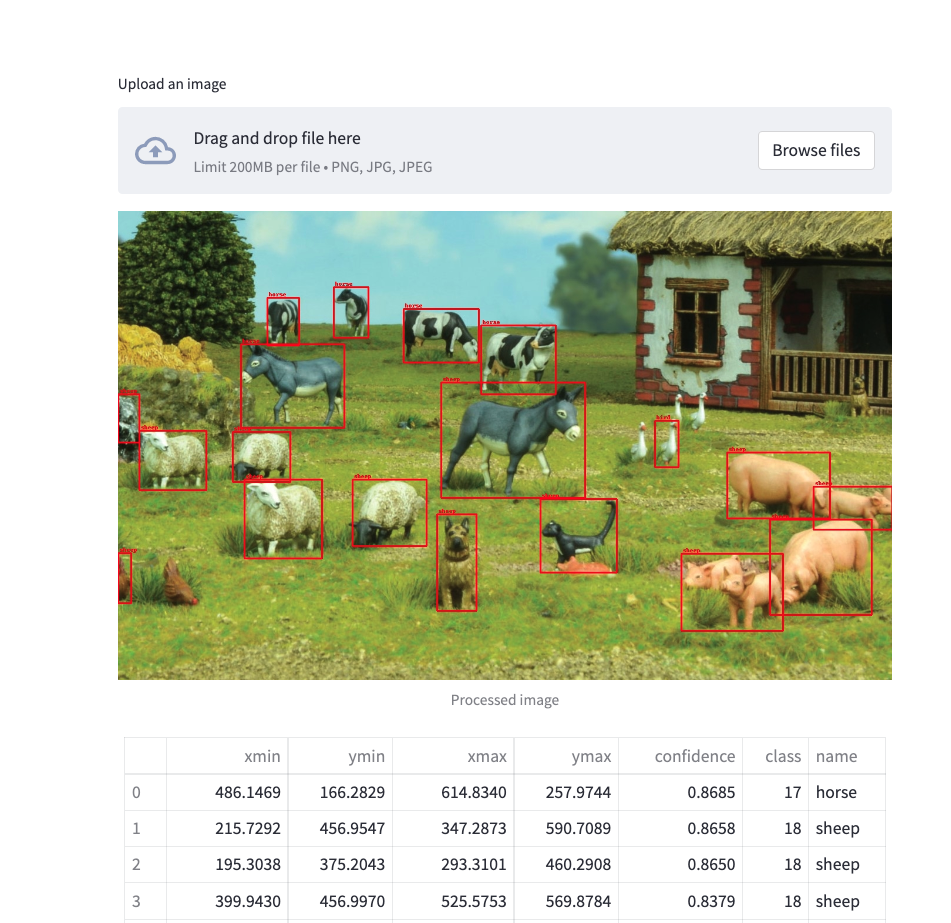
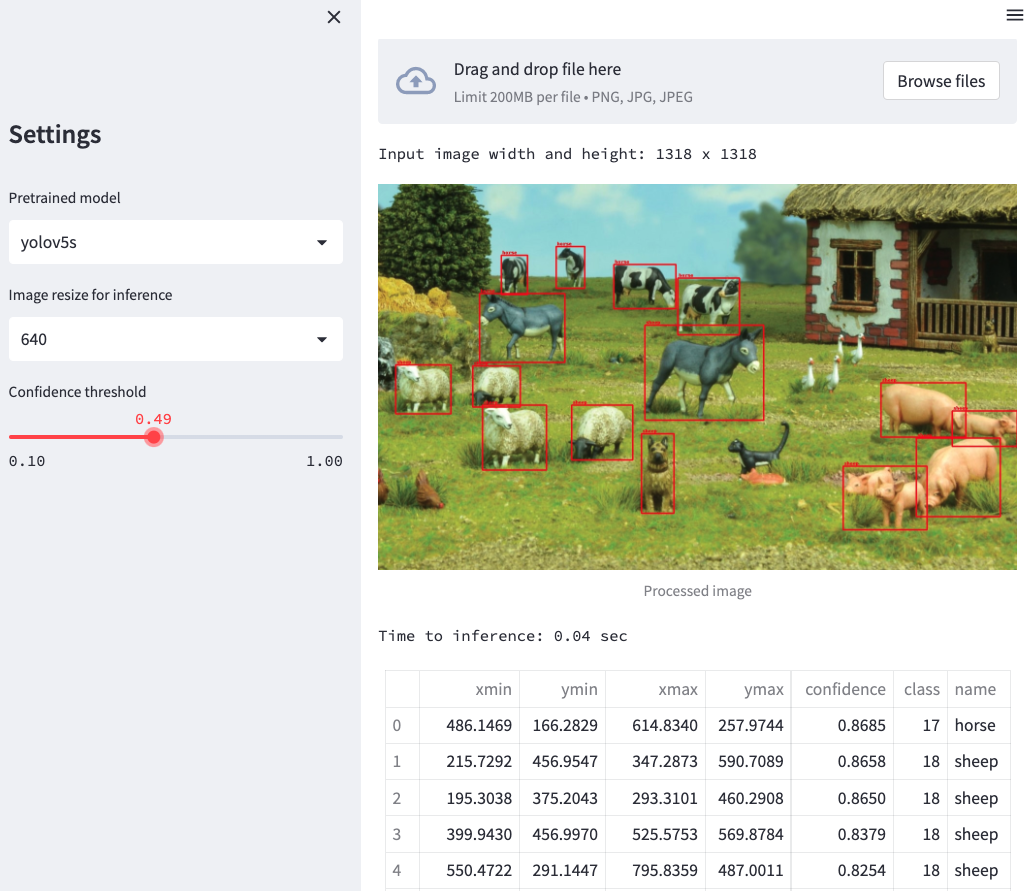
refactor

diff --git a/app.py b/app.py
@@ -4,9 +4,7 @@ from PIL import Image, ImageDraw
 from typing import Tuple
 import numpy as np
 import const
-
-DEFAULT_IMAGE = "assets/farm.jpg"
-
+import time
 
 def draw_box(
     draw: ImageDraw,
@@ -38,23 +36,39 @@ def draw_box(
         )
 
 
-@st.cache(allow_output_mutation=True, show_spinner=False)
-def get_model():
-    model = torch.hub.load("ultralytics/yolov5", "yolov5s")
+@st.cache(allow_output_mutation=True, show_spinner=True)
+def get_model(model_id : str = "yolov5s"):
+    model = torch.hub.load("ultralytics/yolov5", model_id)
     return model
 
+# Settings
+st.sidebar.title("Settings")
+model_id = st.sidebar.selectbox("Pretrained model", const.PRETRAINED_MODELS, index=1)
+img_size = st.sidebar.selectbox("Image resize for inference", const.IMAGE_SIZES, index=1)
+CONFIDENCE = st.sidebar.slider(
+    "Confidence threshold",
+    const.MIN_CONF,
+    const.MAX_CONF,
+    const.DEFAULT_CONF,
+)
 
-model = get_model()
+model = get_model(model_id)
+st.title(f"{model_id}")
 
 img_file_buffer = st.file_uploader("Upload an image", type=["png", "jpg", "jpeg"])
 if img_file_buffer is not None:
     pil_image = Image.open(img_file_buffer)
 
 else:
-    pil_image = Image.open(DEFAULT_IMAGE)
+    pil_image = Image.open(const.DEFAULT_IMAGE)
 
-results = model(pil_image, size=640)  # reduce size=320 for faster inference
+st.text(f"Input image width and height: {pil_image.width} x {pil_image.width}")
+start_time = time.time()
+results = model(pil_image, size=img_size)
+end_time = time.time()
+
 df = results.pandas().xyxy[0]
+df = df[df["confidence"] > CONFIDENCE]
 
 draw = ImageDraw.Draw(pil_image)
 for _, obj in df.iterrows():
@@ -74,5 +88,7 @@ st.image(
     caption=f"Processed image",
     use_column_width=True,
 )
+
+st.text(f"Time to inference: {round(time.time() - end_time, 2)} sec")
 
 st.table(df)

diff --git a/const.py b/const.py
@@ -2,3 +2,19 @@
 RED = (255, 0, 0)  # For objects within the ROI
 GREEN = (0, 255, 0)  # For ROI box
 YELLOW = (255, 255, 0)  # For objects outside the ROI
+
+DEFAULT_IMAGE = "assets/farm.jpg"
+
+PRETRAINED_MODELS = [
+    "yolov5n",
+    "yolov5s",
+    "yolov5m",
+    "yolov5l",
+    "yolov5x"
+]
+
+IMAGE_SIZES = [320, 640, 1280]
+
+MIN_CONF = 0.1
+MAX_CONF = 1.0
+DEFAULT_CONF = 0.5

diff --git a/README.md b/README.md
@@ -5,12 +5,16 @@ Web ui for yolov5 using Streamlit
 <img src="assets/usage.png" width="900">
 </p>
 
+## Usage (Mac)
+* Create and activate a venv: `python3 -m venv venv` and `source venv/bin/activate`
+* Install requirements: `pip install -r requirements.txt`
+* Run streamlit from `app` folder: `streamlit run app.py`
+
+## References
+- [Yolov5 docs for torchhub](https://github.com/ultralytics/yolov5/issues/36)
+- [Yolov5 on torchhub](https://pytorch.org/hub/ultralytics_yolov5/)
+
 ## Related projects
 - [deepstack-ui](https://github.com/robmarkcole/deepstack-ui) -> provided much of the inspiration
 - [yolov5-flask](https://github.com/robmarkcole/yolov5-flask) -> example deploying yolov5 as a flask API serivce
 - [sahi-yolox](https://huggingface.co/spaces/fcakyon/sahi-yolox)
-
-## Development (Mac)
-* Create and activate a venv: `python3 -m venv venv` and `source venv/bin/activate`
-* Install requirements: `pip install -r requirements.txt`
-* Run streamlit from `app` folder: `streamlit run app.py`
